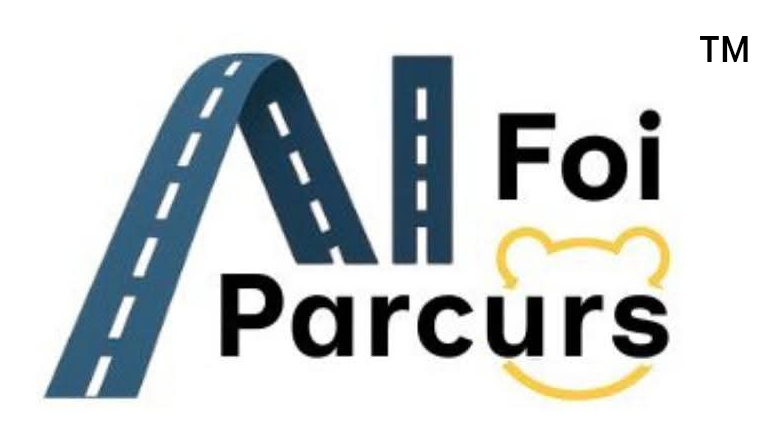
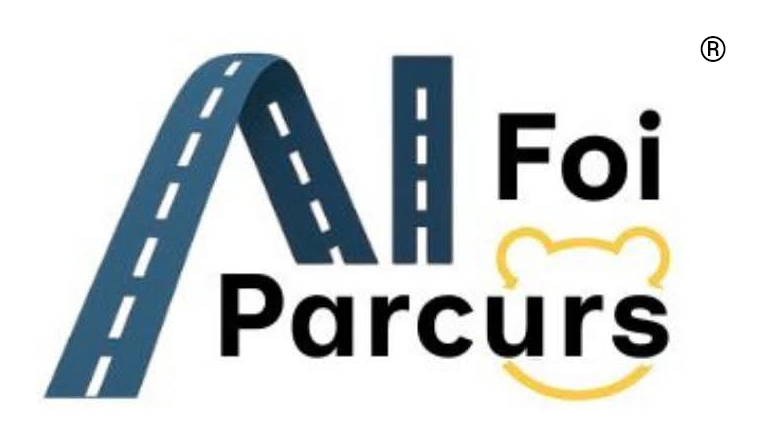
din TM in R

diff --git a/blog/marca-aifoiparcurs.html b/blog/marca-aifoiparcurs.html
@@ -5,7 +5,7 @@
     <meta name="viewport" content="width=device-width, initial-scale=1.0" />
     <meta
       name="description"
-      content="Anunțăm înregistrarea mărcii AIFoiParcurs™, prima marcă înregistrată a Visaj Technologies — un reper important pentru firmă."
+      content="Anunțăm înregistrarea mărcii AIFoiParcurs®, prima marcă înregistrată a Visaj Technologies — un reper important pentru firmă."
     />
     <title>Prima marcă înregistrată a Visaj Technologies</title>
     <link rel="canonical" href="https://www.visajtech.com/blog/marca-aifoiparcurs" />
@@ -27,7 +27,7 @@
     <meta property="og:title" content="Prima marcă înregistrată a Visaj Technologies" />
     <meta
       property="og:description"
-      content="Timișoara. Visaj Technologies anunță prima sa marcă înregistrată: AIFoiParcurs™."
+      content="Timișoara. Visaj Technologies anunță prima sa marcă înregistrată: AIFoiParcurs®."
     />
     <meta property="og:image" content="https://www.visajtech.com/assets/sasa-cioringa.jpg" />
     <meta property="article:published_time" content="2026-11-25" />
@@ -38,7 +38,7 @@
     <meta name="twitter:title" content="Prima marcă înregistrată a Visaj Technologies" />
     <meta
       name="twitter:description"
-      content="Timișoara. Prima marcă înregistrată a firmei este AIFoiParcurs™."
+      content="Timișoara. Prima marcă înregistrată a firmei este AIFoiParcurs®."
     />
     <meta name="twitter:image" content="https://www.visajtech.com/assets/sasa-cioringa.jpg" />
 
@@ -63,7 +63,7 @@
         "publisher": { "@id": "https://www.visajtech.com/#organization" },
         "mainEntityOfPage": "https://www.visajtech.com/blog/marca-aifoiparcurs",
         "image": "https://www.visajtech.com/assets/sasa-cioringa.jpg",
-        "description": "Anunțăm înregistrarea mărcii AIFoiParcurs™, prima marcă înregistrată a Visaj Technologies — un reper important pentru firmă."
+        "description": "Anunțăm înregistrarea mărcii AIFoiParcurs®, prima marcă înregistrată a Visaj Technologies — un reper important pentru firmă."
       }
     </script>
   </head>
@@ -107,19 +107,19 @@
               <img
                 src="/assets/aifoiparcurs-brand.png"
                 alt="Sigla AIFoiParcurs"
-                width="784"
+                width="762"
                 height="448"
               />
             </figure>
             <p class="fchapter__dateline">Timișoara · 25 noiembrie 2026</p>
             <p class="fchapter__intro">
-              Anunțăm înregistrarea mărcii AIFoiParcurs™, prima marcă înregistrată a Visaj Technologies. Pentru o
+              Anunțăm înregistrarea mărcii AIFoiParcurs®, prima marcă înregistrată a Visaj Technologies. Pentru o
               companie care își construiește produsele pas cu pas, recunoașterea primului nume ca marcă reprezintă un
               reper important în parcursul firmei.
             </p>
             <p class="article-mark">
               <span class="article-mark__status">Prima marcă înregistrată</span>
-              <span class="article-mark__name">AIFoiParcurs<sup>™</sup></span>
+              <span class="article-mark__name">AIFoiParcurs<sup>®</sup></span>
             </p>
 
             <h2>Semnificația acestui pas</h2>
@@ -144,7 +144,7 @@
             <h2>Ce se modifică</h2>
             <p>
               Produsul și modul de utilizare rămân neschimbate. Înregistrarea nu introduce funcții noi; ea privește
-              exclusiv statutul numelui. AIFoiParcurs™ este, de acum, marcă înregistrată, iar semnul este purtat
+              exclusiv statutul numelui. AIFoiParcurs® este, de acum, marcă înregistrată, iar semnul este purtat
               deopotrivă de produs și de domeniul său.
             </p>
 

diff --git a/index.html b/index.html
@@ -441,7 +441,7 @@
               <a class="journal-card" href="/blog/marca-aifoiparcurs">
                 <time class="journal-card__date" datetime="2026-11-25">25 noiembrie 2026</time>
                 <h3>Prima marcă înregistrată a Visaj Technologies</h3>
-                <p>Un reper important pentru firmă: primul nostru nume protejat ca marcă — AIFoiParcurs™.</p>
+                <p>Un reper important pentru firmă: primul nostru nume protejat ca marcă — AIFoiParcurs®.</p>
               </a>
               <a class="journal-card" href="/blog/timisoara-competitiva-2040">
                 <time class="journal-card__date" datetime="2026-09-25">25 septembrie 2026</time>
